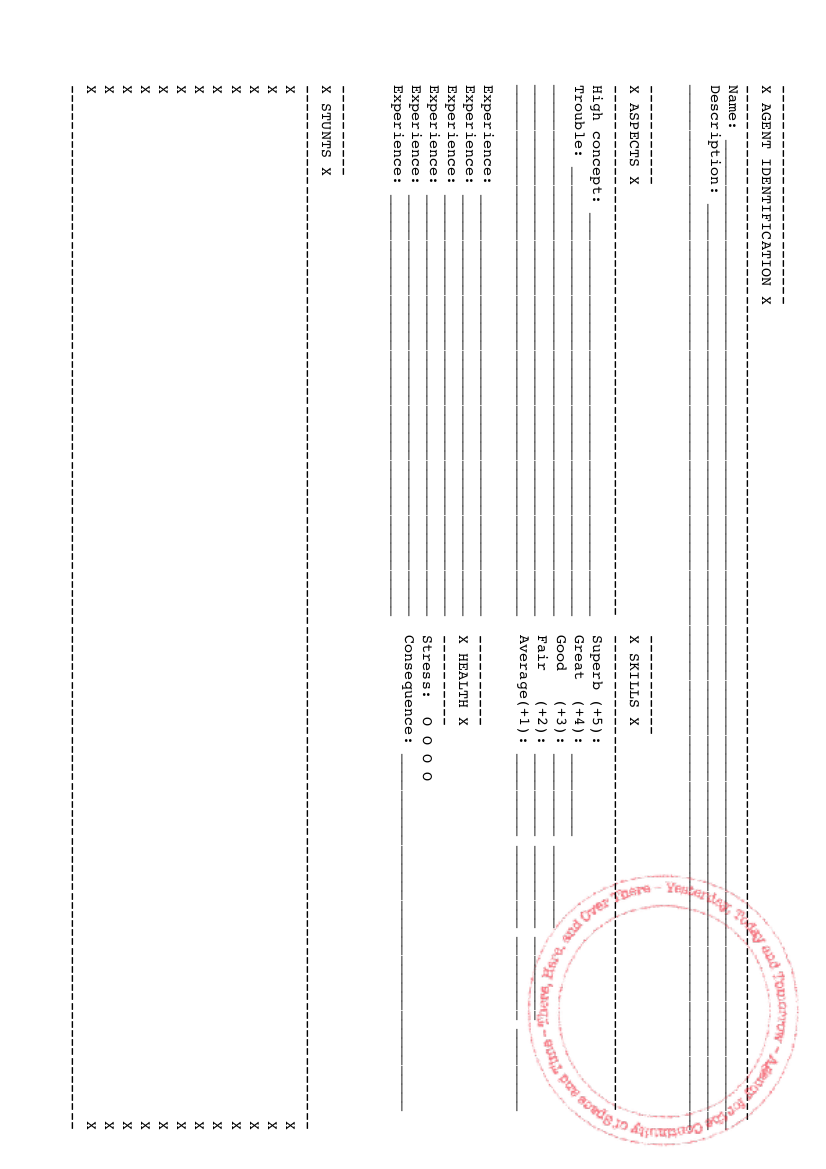
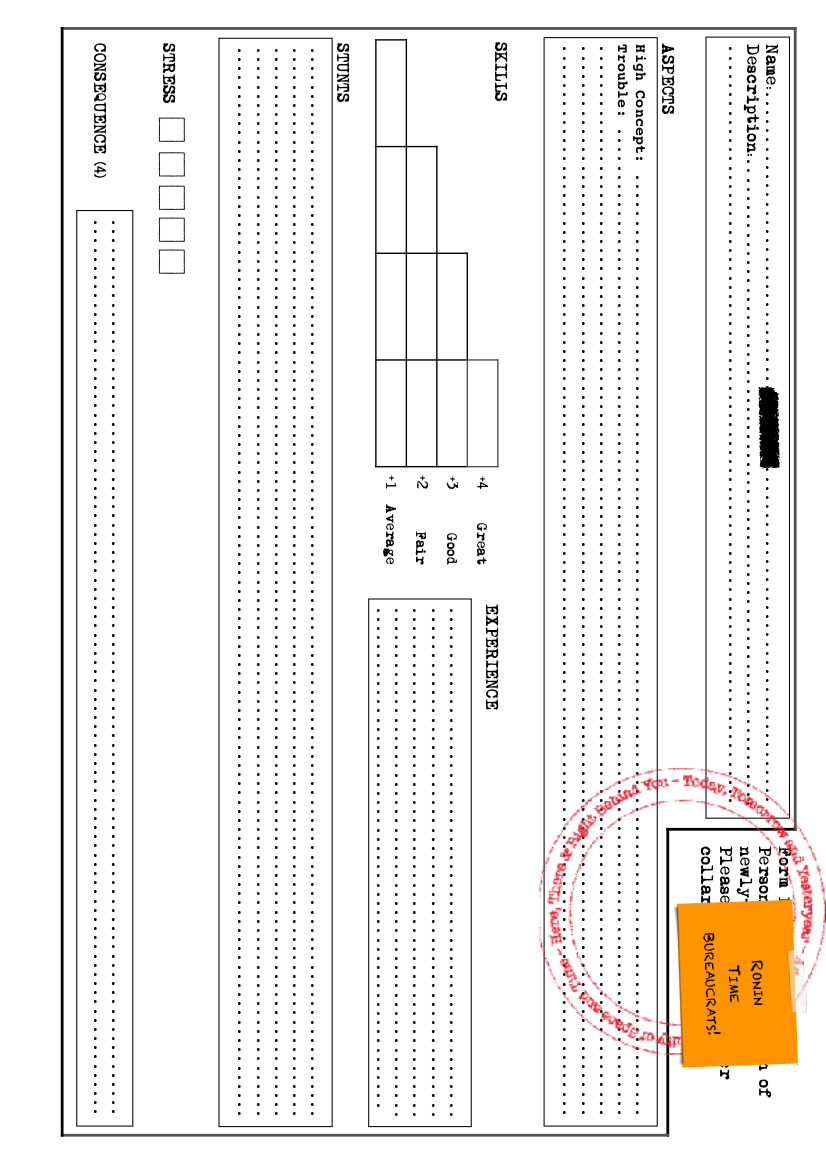
Updates assets/Character sheet.png
Auto commit by GitBook Editor

diff --git a/where-when-and-how-the-rules.md b/where-when-and-how-the-rules.md
@@ -12,6 +12,10 @@ We're not going to copy the rules of Fate here, but:
 
 So, starting from this line, we're going to assume that you know the rules of Fate Core. If you don't, please hop into your Continuum Indirection and rewind Space·Time to read those rules!
 
+## Health
+
+In Space·Time, most threats are deadly. Unless they have specialized Stunts, characters only have one Consequence slot.
+
 ## Available Skills
 
 * Awareness
@@ -206,4 +210,10 @@ Most Non-Player Characters are described by:
 Whenever there are at least two NPCs opposing the PCs, there are at least two ways to play the NPCs. They can be a **Passerbys** or a **Team**. Passerbys act independently from each other. For instance, in a combat situation, typically, each of them will attack one PC. By opposition, Teams work together. For instance, in a combat situation, the strongest will attack one of the PCs, while the others will run interference, Creating Advantages for their vanguard, until that one may strike at the PC.
 
 With the exact same group of NPCs, you will notice that Teams are much better at actually hurting the PCs than Passerbys. Deciding whether they do this is up to the GM.
+
+## The Character Sheet
+
+![](/assets/Character sheet.png)
+
+
 

diff --git a/SUMMARY.md b/SUMMARY.md
@@ -7,7 +7,6 @@
 * [Tools of the Trade: The Time Deck](the-time-deck.md)
 * [What's that Thing: Cultures and Aliens](cultures-and-aliens.md)
 * [Where, When and How: The Rules](where-when-and-how-the-rules.md)
-* [Who, Where From and With What: The Character Sheets](who-where-from-and-with-what-the-character-sheets.md)
 * [Mission Report: The Yellow Curse of Euthermios](mission-the-polyphonic-choir.md)
 * [Look, over there: Further sources](further-readings.md)
 * [Who, Where From and With What: The Character Sheets](who-where-from-and-with-what-the-character-sheets.md)
